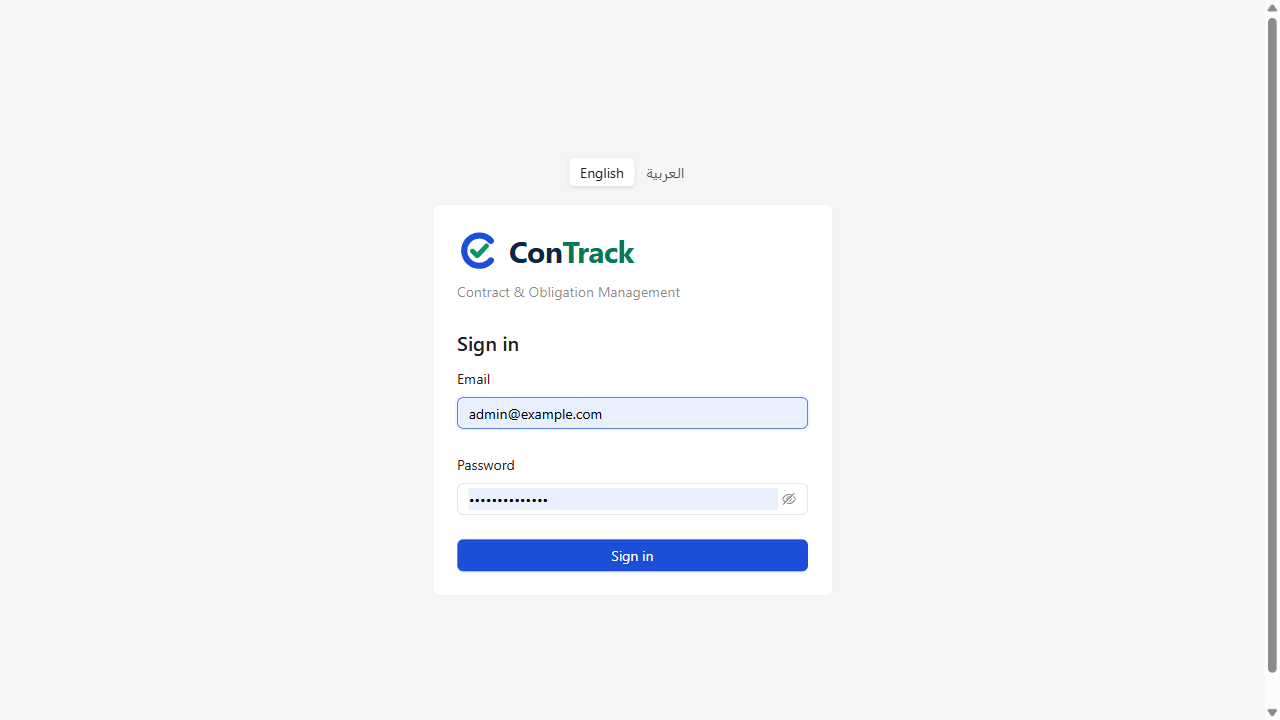
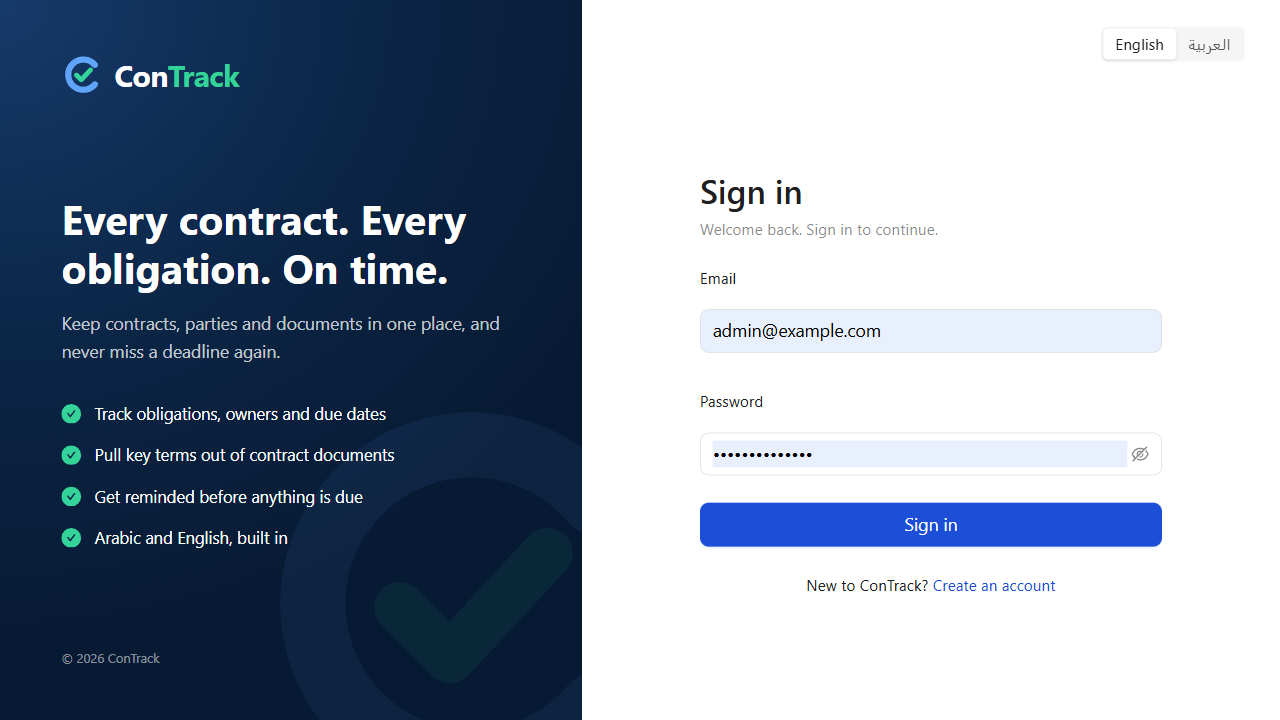
docs: record self sign-up change request CR-01 and refresh screenshots

diff --git a/docs/decisions.md b/docs/decisions.md
@@ -29,6 +29,17 @@ confirms or changes an item, update this table and tick the issue.
 | D-18 | Expected volumes? | Planned for up to ~200 users, ~50,000 contracts, ~500,000 obligations, ~200,000 documents. Server-side pagination and indexes from day one. | Revisit with real numbers before production sizing. |
 | D-19 | Backup and document retention? | Daily database backups kept 30 days; document storage included in backups; documents retained indefinitely while their contract exists. No automatic deletion. | Deployment/infrastructure configuration (not application code). |
 
+## Change requests
+
+Changes the project owner asked for that go beyond the SRS v0.1 text.
+
+| ID | Change | Decided | Where it lives / how to change |
+|---|---|---|---|
+| CR-01 | **Open self sign-up.** Anyone can create an account from the login page and is signed in at once. New accounts get only the **Employee** role, whose data scope is "assigned obligations", so a new account sees no contract data until someone assigns it work. Administrators still create accounts with other roles (FR-USER-01) and can change roles or deactivate. | 2026-10-22, project owner (chosen over "request access" and "contact administrator") | Settings `SELF_SIGNUP_ENABLED` (default `true`) and `SELF_SIGNUP_ROLE` (default `employee`). With sign-up off, the link disappears and `POST /auth/register` returns `403`. |
+
+Known follow-ups for CR-01: e-mail address verification and sign-up rate limiting (with module 8, which adds
+e-mail delivery). Until then an address is not proven to belong to the person who registered it.
+
 ## Technical decisions
 
 | ID | Decision | Reason |

diff --git a/docs/api-standards.md b/docs/api-standards.md
@@ -114,6 +114,8 @@ Response:
 | Endpoint | Purpose |
 |---|---|
 | `POST /auth/login` | `{email, password}` → `{access_token, token_type: "bearer", expires_in, user}` and sets the refresh cookie. Wrong e-mail, wrong password and inactive account all return the same `401` ("Invalid email or password."). |
+| `POST /auth/register` | Self sign-up (CR-01): `{email, full_name, password, preferred_language}` → `201` with the same body as login, and signs the user in. `409` if the e-mail is taken, `403` if sign-up is disabled. |
+| `GET /auth/options` | Public: `{self_signup_enabled}`, so the login page knows whether to show "Create an account". |
 | `POST /auth/refresh` | Uses the refresh cookie; returns a new access token and rotates the cookie. |
 | `POST /auth/logout` | Ends the session (works with only the cookie, so an expired access token can still log out). Always `204`. |
 | `GET /auth/me` | Current user, roles, permission codes and data scopes; the frontend uses it to show or hide actions. |

diff --git a/docs/traceability.md b/docs/traceability.md
@@ -87,6 +87,12 @@ UC-03, UC-04 and UC-05 are the workflows defined in SRS 9.1–9.3; the others ar
 | FR-REP-04 | UC-11 | Contract reports | `GET /reports/contracts?group_by=type,status` | TC-REP-04 | 10 dashboard-reports | ⏳ |
 | FR-REP-05 | UC-11 | Export button | CSV export endpoints | TC-REP-05 | 10 dashboard-reports | ⏳ |
 
+## Change requests
+
+| Request | Use case | Frontend | Backend | Test case | Module | Status |
+|---|---|---|---|---|---|---|
+| CR-01 self sign-up | UC-01 | Sign-up page (`features/auth/SignUpPage.tsx`), "Create an account" link on the login page | `POST /auth/register`, `GET /auth/options` | TC-CR-01 | 1 auth-users-rbac | ✅ |
+
 ## Business rules
 
 | Rule | Enforced in | Test case | Module | Status |

diff --git a/docs/roles-and-permissions.md b/docs/roles-and-permissions.md
@@ -18,6 +18,11 @@ code change.
 A user can hold more than one role; their permissions are the union of their roles, and their data scope is the
 widest scope among their roles.
 
+### Self-registered accounts (CR-01)
+
+Accounts created through **Create an account** get exactly one role, `employee` by default
+(`SELF_SIGNUP_ROLE`). The visitor cannot choose or send a role. An administrator can change it later.
+
 ## Permission matrix (SRS 3.2)
 
 | Capability | Permission code | Admin | Contract Manager | Legal | Property Manager | Employee | Management |

diff --git a/README.md b/README.md
@@ -62,7 +62,8 @@ uvicorn app.main:app --reload
 ```
 
 `create-admin` asks for a password (or reads `COMS_ADMIN_PASSWORD`). Sign in with that account, then create other
-users from **Users** in the app.
+users from **Users** in the app. People can also register themselves with **Create an account** on the login page;
+they start with the Employee role (`SELF_SIGNUP_ENABLED` / `SELF_SIGNUP_ROLE` in `.env`).
 
 - API: http://localhost:8000/api/v1
 - Swagger UI: http://localhost:8000/api/docs
